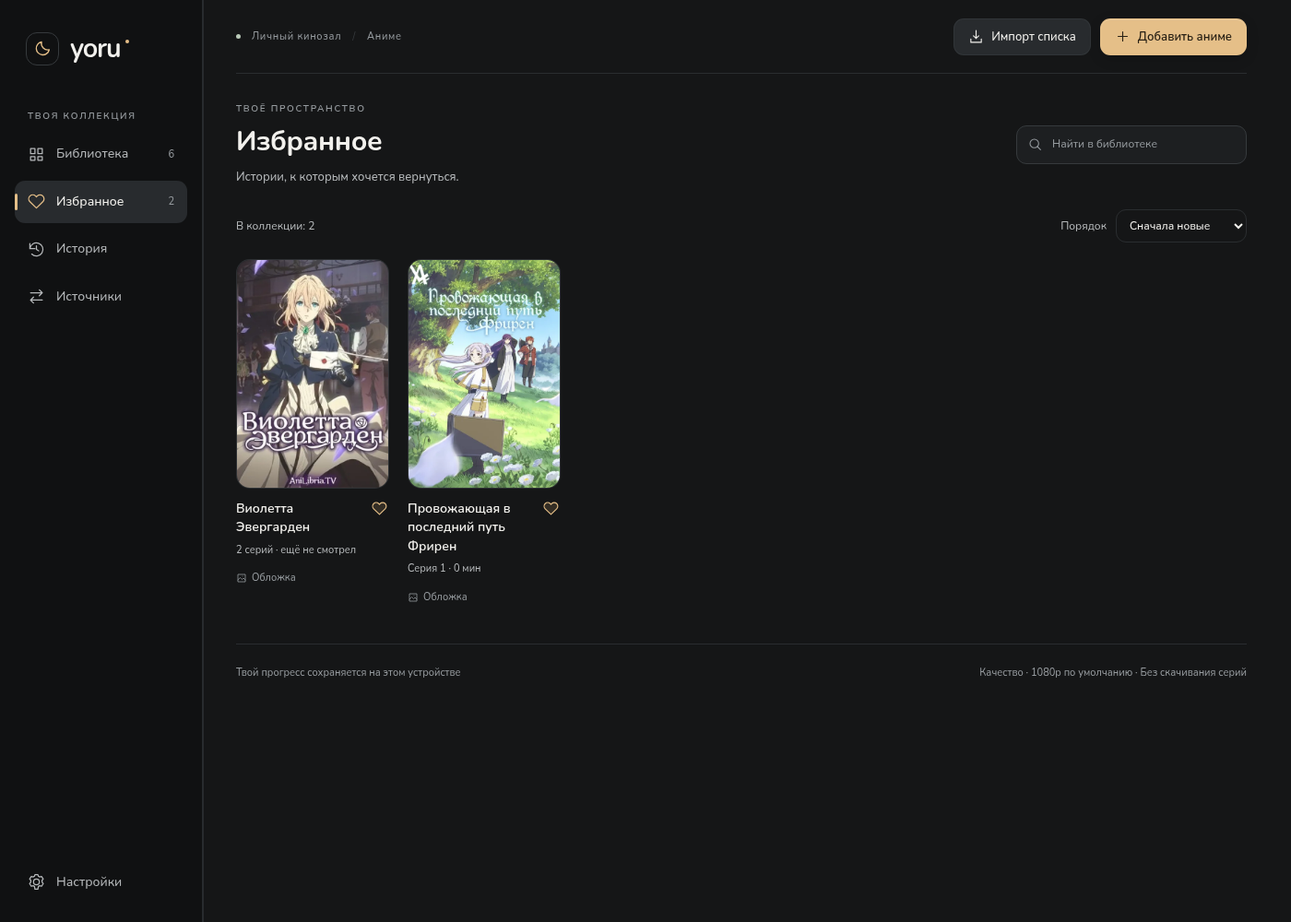
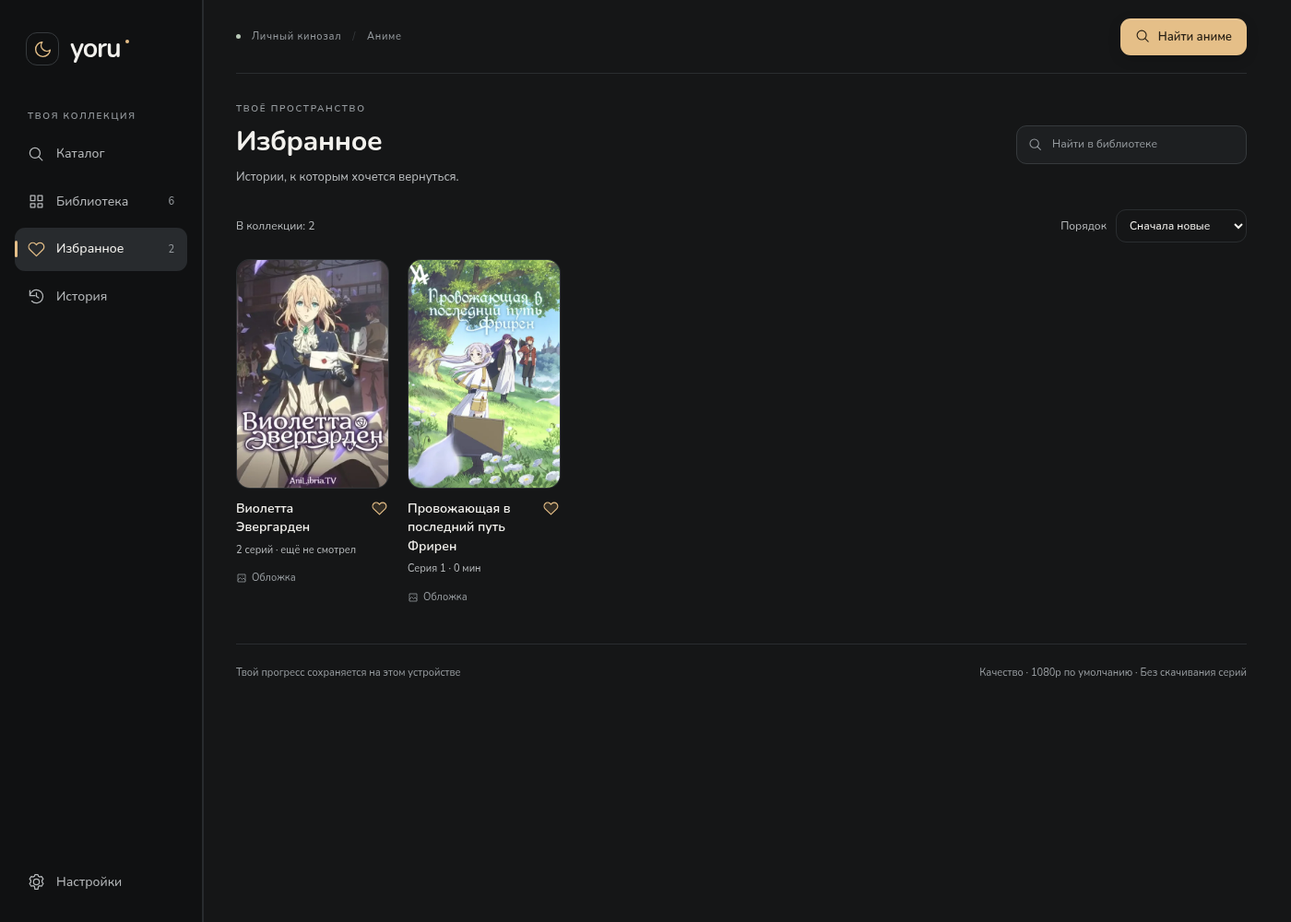
Document Yoru 0.8.0 catalog, verified installer and refresh all screenshots [skip ci]

Changed region(s): [[0.0, 0.155, 0.1536, 0.341], [0.7371, 0.0, 0.9214, 0.062]]

diff --git a/scripts/update-gallery.js b/scripts/update-gallery.js
@@ -12,8 +12,11 @@ const aliases = {
   'settings-manual.png': 'settings-advanced-preview.png',
   'original-player.png': 'original-ass-player.png',
   'anidb-cast.png': 'character-photos.png',
+  'catalog-release.png': 'catalog-release-standard.png',
 };
-const names = [...new Set([...readdirSync(gallery).filter(name => name.endsWith('.png')), 'loading-miku.png'])];
+// Live network captures are reviewed separately; deterministic tests cannot recreate them.
+const liveCaptures = new Set(['catalog-live-home.png', 'catalog-live-player.png', 'catalog-live-player-alternative.png']);
+const names = [...new Set([...readdirSync(gallery).filter(name => name.endsWith('.png') && name !== 'sources.png' && !liveCaptures.has(name)), 'loading-miku.png', 'catalog-home.png', 'catalog-release.png', 'custom-theme-safe.png', 'performance-smooth.png', 'library-empty-moon.png'])];
 const copies = names.map(name => ({ from: path.join(captures, aliases[name] || name), to: path.join(gallery, name) }));
 // Check every source before replacing any published image.
 for (const { from } of copies) if (!statSync(from).isFile() || !statSync(from).size) throw new Error(`Missing capture: ${from}`);

diff --git a/README.md b/README.md
@@ -1,113 +1,78 @@
 # Yoru — личный кинозал для аниме
 
-<img src="public/yoru-icon.png" width="80" height="80" alt="Иконка Yoru — луна и воспроизведение">
+<img src="public/yoru-icon.png" width="80" height="80" alt="Иконка Yoru">
 
-**Windows 10/11 · x64 · версия 0.7.7 · предварительная сборка**
+**Windows 10/11 · x64 · версия 0.8.0**
 
-Библиотека, продолжение просмотра, выбранная озвучка и свои заметки о персонажах. Пять готовых тем и собственная палитра. Приложение работает с прямыми видеоссылками; страницы плееров сайтов открываются отдельно.
+Открой каталог, найди аниме, выбери серию и нажми **«Смотреть»**. Название, постер, описание, серии и доступное видео загружаются автоматически. Вставлять ссылки для просмотра из каталога не нужно.
 
-![Yoru 0.7 — библиотека с настоящими постерами](docs/images/library.png)
+![Настоящий каталог Yoru 0.8.0 — живой ответ сервиса](docs/images/catalog-live-home.png)
 
-## Установить приложение
+## Установка
 
-**[Скачать установщик Yoru 0.7.7](https://github.com/Duwkaf1/kinoteatr-xivivide/actions/runs/40199925366/artifacts/12601078638)** · примерно 103 MiB. В артефакте **Yoru-installer-x64** находится `Yoru-Setup-0.7.7-x64.exe`: закрой прежний Yoru, извлеки EXE из ZIP GitHub, запусти и нажми **«Установить»**. Установщик автономный, на русском, без прав администратора. Библиотека, темы и заметки сохраняются. [Инструкция и проверки](docs/installer.md).
+**[Скачать установщик Yoru 0.8.0](https://github.com/Duwkaf1/kinoteatr-xivivide/actions/runs/40209399298/artifacts/12604909852)** — около 103 MiB. Извлеки `Yoru-Setup-0.8.0-x64.exe` из ZIP GitHub, закрой прежний Yoru и нажми **«Установить»**. Установщик автономный, на русском, без прав администратора; библиотека и настройки сохраняются. Для загрузки артефакта GitHub нужен вход в аккаунт.
 
-## Готовность к публикации
+[Инструкция](docs/installer.md) · [ZIP без установки](https://github.com/Duwkaf1/kinoteatr-xivivide/actions/runs/40209399298/artifacts/12605169136) · [Успешная Windows-проверка](https://github.com/Duwkaf1/kinoteatr-xivivide/actions/runs/40209399298)
 
-**Пока это предварительный плеер для прямых ссылок, а не готовый каталог, где любое аниме запускается автоматически.** Серии и озвучки сайтов ещё не извлекаются автоматически. Проверка Yummyani/AnimeJoy/AniDUB дала HTTP 200 страниц, TroutCDN — 403, Brogiro — 404. У четырёх популярных релизов AniLibria загрузились метаданные и HLS-плейлисты, но медиапробы отклонил прокси среды. Российского выхода в этой среде нет: просмотр из РФ и задержки живого аниме не подтверждены. [Результаты проверки 0.7.6](docs/release-audit-0.7.6.md).
+## Каталог и просмотр
 
-В 0.7.2 убраны подписи источника фото на карточках. Расширены проверки обоих плееров на MP4/WebM/HLS и декодирование звука. Исправлены запуск после смены движка во время загрузки и очистка оформленных субтитров при закрытии Video.js. [Полный отчёт перед выпуском](docs/release-audit-0.7.2.md).
+- Поиск по названию, разделы **«Популярное», «Обновления», «Новинки»**, подгрузка следующих карточек.
+- Карточка аниме с постером, описанием, жанрами, выбором доступной серии и избранным.
+- Автоматическое добавление просмотренного аниме в библиотеку и история с продолжением на сохранённой серии и позиции.
+- Основной и альтернативный плееры; переключение сохраняет позицию, паузу и звук.
+- Качество выбирается из реально доступных вариантов. Перед повторным открытием обновляются временные адреса видео, чтобы старые ссылки не мешали запуску.
+- При ошибке — понятное сообщение и повторная попытка. Отдельной страницы «Источники» с обязательными проверками больше нет.
 
-## Восстановление просмотра 0.7.7
+Сейчас подключён **каталог AniLibria/AniLiberty**: в живой проверке 25 октября 2026 года API вернул **1 904 релиза** с русской озвучкой. Это каталог этого провайдера, а не всех аниме мира. Часть релизов может иметь неполный список доступных серий или ограничения; приложение показывает фактическую доступность. Другие студии и оригинальная дорожка не приписываются этому провайдеру.
 
-**30 секунд без продвижения видео — переход к другому источнику той же озвучки.** Быстрые ошибки могут обработаться раньше; повторные попытки не начинают ожидание заново. Сначала перебираются источники текущей студии, затем сохранённый приоритет AniDUB → AniLibria → другая русская. Выбранные разрешение, сезон, серия, позиция, пауза и звук сохраняются. Добавленный во время просмотра резервный источник сразу участвует в восстановлении.
+![Настоящее воспроизведение «Фрирен» в 1080p через основной плеер](docs/images/catalog-live-player.png)
 
-У каждого аниме свой сохранённый прогресс. После обычного закрытия и перезапуска открываются нужная серия и тайминг. Персонажи включают главных и второстепенных; главные показаны первыми, личные имена и заметки сохраняются. [Как это проверено и где работает](docs/recovery-0.7.7.md).
+[«Клинок, рассекающий демонов» через альтернативный плеер](docs/images/catalog-live-player-alternative.png) · [Как проверен каталог](docs/catalog-0.8.0.md)
 
-## Стабильность и анимации 0.7.6
+## Оформление и удобство
 
-Исправлены потеря изменений после импорта во время просмотра, переполнение библиотеки, запуск с повреждёнными настройками AniDB, выбор одноимённых переводов и появление оформленных субтитров на паузе. При недоступном хранилище интерфейс честно сообщает о временных изменениях. Улучшена вёрстка малого окна при большом масштабе.
+Пять готовых тем — **«Тёплая ночь», OLED, «Север», «Сакура», «Молочный»** — и **«Своя»** с цветами фона, панелей, текста, акцента и формой элементов. Личный выбор сохраняется при переключении тем.
 
-В режиме **«Качество»** внутри загрузочного кольца танцует пиксельная Мику. Она появляется при ожидании видео и исчезает после запуска, паузы или закрытия. В скрытом окне анимации остановлены; другие режимы и уменьшение движения не загружают спрайт. Постеры мягко появляются и приближаются при наведении. Разрешение видео от этих эффектов не меняется.
+В 0.8.0 исправлены форма и центрирование месяца. Собственная палитра автоматически получает читаемый текст на каждой поверхности, включая поля и боковую панель. Включённое по умолчанию **«Смягчать яркие фоны»** делает большие цветные поверхности спокойнее; переключатель позволяет оставить точные цвета. Исходные значения в палитре сохраняются в обоих случаях, исправление контраста работает всегда.
 
-![Мику в индикаторе загрузки режима «Качество»](docs/images/loading-miku.png)
+Ползунок **«Производительность → Баланс → Качество»** плавно следует за мышью и мягко останавливается на выбранном режиме. Клавиатура переключает режимы целиком. Описания не сдвигают ползунок при смене режима на узком окне.
 
-## Названия переводов 0.7.5
+- Производительность отключает декоративные эффекты и анимации, уменьшает количество карточек библиотеки и лимиты памяти медиакомпонентов.
+- Качество добавляет мягкие переходы, объём обложек и танцующую пиксельную Мику в индикатор ожидания видео.
+- Разрешение видео настраивается отдельно. Изменение оформления не перезапускает текущую серию.
+- Локальный шрифт Nunito с кириллицей, SVG-иконки, прокрутка справа, клавиатурный фокус и поддержка уменьшения движения.
 
-«Студия В» на прежнем снимке была подписью собственного тестового файла, а не реальной команды. Пример теперь явно подписан **«Демонстрационные субтитры»**. В настоящих дорожках сохраняется имя из источника (`translator` / `studio` / `label`); при локальном импорте оформленных субтитров также читается автор перевода в метаданных. Имя файла больше не подставляется вместо автора. Если имени нет — **«Переводчик не указан»**, без выдумывания студии.
+![Собственная тема с исправленным контрастом и смягчением яркого фона](docs/images/custom-theme-safe.png)
 
-## Понятные настройки 0.7.4
+[Все 44 скриншота](docs/images/README.md) · [Плавный ползунок](docs/images/performance-smooth.png) · [Пример формы элементов](docs/images/settings-radius-preview.png)
 
-Две вкладки: **«Основные»** и **«Дополнительно»**. В основных — ползунок с тремя положениями **«Производительность → Баланс → Качество»**, готовые темы, собственная палитра и автопереход серии. Технические параметры доступны отдельно.
+## Сохранённые возможности
 
-- Содержимое прокручивается справа, навигация остаётся на месте, «Настройки» — внизу панели.
-- Заголовки расположены внутри карточек; шрифт Nunito с кириллицей встроен в приложение и работает без интернета.
-- Вместо значений скругления в пикселях — «Сдержанная / Мягкая / Округлая». При наведении или изменении ползунка появляется кнопка **«Показать пример»** с настоящей карточкой и кнопкой в выбранной теме.
-- Производительность отключает анимации, тени, фильтры, декоративный блок главной и увеличение обложек, показывает по 12 карточек. Скрытая библиотека не создаёт карточки и не удерживает их изображения. Лимиты памяти загрузки видео и оформленных субтитров уменьшаются при следующем запуске соответствующего компонента.
-- Качество добавляет мягкие переходы, объём обложек и аккуратное увеличение при наведении. Системное уменьшение движения и личное отключение анимаций учитываются.
-- Чёткость видео задаётся отдельно: режим компьютера не выбирает отсутствующее разрешение и не перезапускает текущую серию.
+У каждого аниме свои прогресс, заметки и имена персонажей. В составе главные персонажи показаны перед второстепенными. Загрузка состава через AniDB и настройка сезона остаются отдельной дополнительной возможностью; автоматического полного состава каждого релиза и каждой серии пока нет.
 
-![Основные настройки Yoru 0.7.4](docs/images/settings-simple.png)
+Для собственной библиотеки сохранены дополнительные прямые MP4/WebM/HLS-источники, оригинальная озвучка, несколько переводов и текстовые/оформленные субтитры. Ручное добавление и импорт находятся в **Настройки → Дополнительно → данные библиотеки** и не нужны для каталога. Страницы сторонних сайтов открываются в изолированных окнах; их внутренними плеерами управляет сайт.
 
-[Пример скругления](docs/images/settings-radius-preview.png)
+**30 секунд без продвижения видео** запускают переход к доступному резервному источнику той же серии и озвучки, затем учитывается сохранённый приоритет русских студий. Качество не снижается автоматически. Это работает при наличии подходящих резервных источников; единственный поток не превращается в несколько независимых плееров. Ручная пауза не считается сбоем.
 
-## Новый интерфейс
+[Восстановление просмотра](docs/recovery-0.7.7.md) · [Имена и заметки](docs/character-details.md) · [Субтитры и дополнительные источники](docs/viewing-0.6.md)
 
-Полностью обновлены оболочка, библиотека, избранное, история, источники, настройки, просмотр и все диалоги. Общие цвета, типографика, размеры и состояния компонентов заменили накопленные переопределения CSS. Системные рамка и кнопки окна Windows сохранены.
+## Проверки версии 0.8.0
 
-- Спокойные поверхности, сдержанный акцент, SVG-иконки, заметный клавиатурный фокус.
-- Простые настройки с двумя вкладками; подробные параметры остались доступны отдельно.
-- Компактный плеер: основные действия рядом с видео, остальные — в параметрах просмотра.
-- Адаптация к небольшому окну, системному контрасту и уменьшению движения.
-- OLED с настоящим чёрным фоном; раннее применение сохранённой темы без светлой вспышки страницы.
+Проверенный код приложения — [`b1a6645`](https://github.com/Duwkaf1/kinoteatr-xivivide/commit/b1a66450cee1de0d3e47595474fc6eae30300673).
 
-[Все новые скриншоты](docs/images/README.md) · [Дизайн-система, изменённые файлы и проверки](docs/redesign-0.7.md)
+- **68 unit-тестов**, **81 браузерный сценарий**, production-сборка и запуск настоящего Linux Electron прошли успешно.
+- Проверены поиск → карточка → серия → видео без ссылок, обработка ошибок, обновление временных адресов, сохранение прогресса, оба плеера, звук, субтитры, темы, формы, персонажи и восстановление после настоящего ожидания 30 секунд.
+- Проверены малые окна, масштаб рендерера 100/125/150/200%, клавиатура и контраст собственных цветов.
+- **Живая проверка без подмены API/медиа:** «Фрирен» и «Клинок, рассекающий демонов» воспроизведены в 1920×1080 со звуком, в разных движках; перемотка на минуту успешна. Каталог загрузил 48 карточек на двух страницах. [Машиночитаемый результат](docs/live-catalog-0.8.0.json).
+- **Windows CI успешен:** тесты, сборка, настоящий Electron, упаковка, установка, запуск установленного EXE, обновление, защита открытого приложения, удаление с сохранением данных и путь с кириллицей.
 
-## Темы и собственное оформление
+Живой просмотр проверен из облачной сети, не у российского провайдера. Доступность каждого релиза, отсутствие любых задержек, физическое изменение DPI мониторов и передача звука Discord на пользовательском ПК не подтверждены. Приложение не может гарантировать работу внешнего сервиса при его отказе.
 
-«Тёплая ночь», **OLED**, «Север», «Сакура», «Молочный» и **«Своя»**. В собственной теме настраиваются фон, панели, текст, акцент и скругление 12–36 px. Свои значения сохраняются при переключении готовых тем. Редактор предупреждает о низком контрасте, текст основной кнопки подбирается автоматически.
+[Подробный отчёт 0.8.0](docs/catalog-0.8.0.md) · [История проверок](docs/validation.md)
 
-| OLED | Светлая тема |
-| --- | --- |
-| ![Настройки OLED](docs/images/settings-oled.png) | ![Настройки в светлой теме](docs/images/settings-cream.png) |
+## Запуск из исходников
 
-[Собственная палитра](docs/images/settings-custom.png) · [Север](docs/images/settings-nord.png) · [Сакура](docs/images/settings-sakura.png) · [Подробные настройки](docs/images/settings-manual.png)
-
-## Просмотр
-
-- Прямые HTTPS-ссылки MP4/WebM/HLS, библиотека с поиском, избранным и историей.
-- Позиция просмотра, список серий и автопереход, который можно отключить.
-- В режиме дубляжа приоритет AniDUB → AniLibria/AniLiberty → другая русская студия. Язык задаётся данными источника, автоматически не распознаётся.
-- Оригинальная озвучка, отдельные варианты перевода субтитров от разных студий. Приоритет у японского оригинала; выбирать язык оригинала вручную не требуется.
-- Текстовые и оформленные субтитры из UTF-8 файлов/ссылок SRT/VTT/ASS/SSA. Задержка; для текстовых — размер и фон, для оформленных — стиль автора через libass.
-- Основной и альтернативный плееры сохраняют позицию, паузу и звук при переключении.
-- Попытки восстановления и запасные прямые источники выбранного языка/качества. Разрешение не снижается автоматически. Ручная пауза не считается сбоем.
-
-![Просмотр с вариантом перевода — собственный тестовый видеофрагмент](docs/images/original-player.png)
-
-[Параметры просмотра](docs/images/player-settings.png) · [Инструкция и ограничения](docs/viewing-0.6.md) · [Пример списка](docs/playlist-original.example.json)
-
-Страницы Yummyani, AnimeJoy и ранее добавленных сайтов открываются в изолированных окнах без Node.js и доступа к профилю приложения. Их внутренними сериями, переводами и позицией управляет сайт. Автоматическое извлечение и синхронизация потоков сайтов пока не реализованы. При отказе сети и всех источников гарантировать непрерывность нельзя. Кодеки зависят от Electron.
-
-## Персонажи, свои имена и заметки
-
-В 0.7.1 блок упрощён: карточки, имена, заметки и одна кнопка **«Настроить»**. Если сезон один, лишнего переключателя нет. Номера релизов и «Привязать» убраны; загрузка и отметки серий находятся в отдельном окне. Для выбора аниме достаточно ссылки на его страницу, номер помнить не нужно.
-
-[Настройки персонажей](docs/images/cast-settings.png)
-
-У каждого аниме и сезона собственная связь с релизом AniDB. Импорт XML или запрос через зарегистрированный HTTP-клиент загружает состав, фотографии персонажей и сэйю. Полная автоматическая загрузка составов всей библиотеки и достоверный полный каст каждой серии пока не реализованы; отметки эпизодов можно вести вручную.
-
-Карандаш рядом с именем меняет личную подпись. Сразу под именем — заметка с автосохранением. Они сохраняются после перезапуска и обновления состава и не переходят в другое аниме. Можно вернуть исходное имя и заменить фотографию своей HTTPS-ссылкой либо явным выбором через MyAnimeList/Jikan.
-
-![Персонажи с фотографиями и личной заметкой](docs/images/anidb-cast.png)
-
-[Имена и заметки](docs/character-details.md) · [Источники фотографий](docs/character-photos.md) · [Обложки AniLibria](docs/posters.md)
-
-Снимки показывают подготовленную библиотеку с настоящими постерами и архивным составом AniDB. В установленном приложении библиотека пустая. Сведения на изображениях не являются свежим ответом API. Живой поиск Jikan/MyAnimeList из облачной сети был заблокирован; его обработка проверена на контролируемых ответах. Для API AniDB нужен собственный зарегистрированный клиент.
-
-## Запуск и сборка
-
-Нужен Node.js 24. Установка и запуск из исходников:
+Нужен **Node.js 24**.
 
 ```sh
 npm ci
@@ -116,42 +81,16 @@ npm run build
 npm start
 ```
 
-Установщик одним файлом (нужен бесплатный NSIS 3.11):
-
 ```sh
+npm run test:e2e
+npm run test:desktop
 npm run installer:win
 ```
 
-Windows-папка приложения и ZIP без установки:
+Для установщика нужен бесплатный NSIS 3.11. `npm run package:win` собирает папку Windows-приложения. В облачной среде с унаследованным прокси используй `NODE_USE_ENV_PROXY=1`; TLS и проверка сертификатов остаются включены. Для Linux Electron нужен графический дисплей; браузерным тестам нужны Chromium и FFmpeg. [Сборка установщика](docs/installer.md).
 
-```sh
-npm run package:win
-python scripts/archive-win.py
-```
+## Данные и лицензии
 
-Распакуй **всю папку** и запускай `Yoru.exe`. Одного EXE недостаточно. Сборка не подписана. При использовании унаследованного прокси в облачной среде: `NODE_USE_ENV_PROXY=1 npm run package:win`. TLS и контрольные суммы Electron остаются включены.
+Настройки, библиотека и заметки хранятся локально. Прежний профиль `kadr-anime` сохранён для совместимости. Временные адреса видео каталога не сохраняются в постоянной библиотеке: приложение запрашивает их заново перед просмотром.
 
-[Проверка и сборка на Windows в GitHub Actions](https://github.com/Duwkaf1/kinoteatr-xivivide/actions/workflows/windows.yml). ZIP доступен в артефактах успешного запуска. Статус конкретной версии нужно смотреть в Actions.
-
-## Проверки
-
-```sh
-npm test
-npm run test:e2e
-npm run build
-npm run test:desktop
-```
-
-**[Windows CI 0.7.7 — успешно](https://github.com/Duwkaf1/kinoteatr-xivivide/actions/runs/40199925366)**: 58 unit-тестов, production-сборка, настоящий Windows Electron, упаковка и полный цикл установки, запуска установленного EXE, обновления и удаления. Native-сценарий также добавляет резервный сервер во время просмотра и проверяет сохранение позиции, паузы и звука после отказа первого. Проверенный код — `413e132`. [Установщик](https://github.com/Duwkaf1/kinoteatr-xivivide/actions/runs/40199925366/artifacts/12601078638) · [ZIP без установки](https://github.com/Duwkaf1/kinoteatr-xivivide/actions/runs/40199925366/artifacts/12601613041) · [Отчёт о восстановлении](docs/recovery-0.7.7.md).
-
-В Linux успешно пройден **71 браузерный сценарий**; отдельно проверен запуск настоящего Electron через `file://`. В обоих движках реальное ожидание около 30 секунд завершилось переходом к источнику той же озвучки с сохранением серии и тайминга. Проверены приоритеты, независимый прогресс двух аниме после перезапуска, главные/второстепенные персонажи, прежние сценарии и масштаб 100–200%. Это не физическое переключение DPI монитора Windows. Галерея обновлена: **37 PNG**. [История проверок](docs/validation.md).
-
-Браузерные сценарии используют собственное короткое видео и контролируемые ответы для проверки отказов. На Linux нужен Chromium, FFmpeg и графический дисплей для Electron. В изолированной облачной Linux-проверке применяется `KADR_ELECTRON_NO_SANDBOX=1`; обычное приложение сохраняет `sandbox: true`.
-
-Реальная смена Windows DPI, ClearType, переход между мониторами и звук Discord ещё требуют проверки на пользовательском компьютере. Для демонстрации выбирай окно Yoru с передачей звука; для сайта — соответствующее отдельное окно. Программа не управляет Discord и не обходит защиту видео.
-
-## Данные и зависимости
-
-Библиотека, настройки, прогресс и заметки хранятся локально. Прежний профиль `kadr-anime` и ключи хранилища сохранены для совместимости. Не публикуй свои плейлисты с личными токенами. [Пример прямых источников](docs/playlist.example.json).
-
-Платные библиотеки и сервисы для редизайна не добавлялись. Electron, HLS.js, Video.js и libass-wasm используются с их лицензиями; лицензии медиа-компонентов и включённого Liberation Sans сохраняются в пакете. Новые SVG созданы в проекте. Локальный Nunito поставляется с лицензией SIL OFL в public/fonts/OFL-Nunito.txt и в Windows-пакете. Постеры, фотографии и персонажи принадлежат их правообладателям; тестовые изображения исключены из Windows-пакета.
+Платные библиотеки не добавлены. Лицензии Electron, HLS.js, Video.js, libass-wasm и включённых шрифтов сохраняются в поставке. Nunito — SIL OFL. Постеры и кадры аниме принадлежат правообладателям; тестовые медиа и архивные изображения не включены в установщик.

diff --git a/docs/catalog-0.8.0.md b/docs/catalog-0.8.0.md
@@ -1,0 +1,64 @@
+# Yoru 0.8.0 — каталог, запуск и исправления оформления
+
+Проверка выполнена 25 октября 2026 года, часовой пояс Asia/Yekaterinburg. Проверенный код — `b1a66450cee1de0d3e47595474fc6eae30300673`; документация и галерея публикуются отдельным коммитом.
+
+## Основной сценарий
+
+Приложение открывается на каталоге. Пользователь ищет название, открывает карточку, выбирает доступную серию и нажимает «Смотреть». Постер, описание, список эпизодов и видеопотоки приходят из AniLibria/AniLiberty автоматически. Ручная форма ссылки остаётся только дополнительным инструментом импорта в настройках. Старый экран источников с неподтверждёнными сайтами удалён.
+
+Доступны популярные, обновлённые и новые релизы, поиск с отменой устаревших запросов, следующая страница, состояния загрузки, пустого результата и ошибки с повторной попыткой. При закрытии карточки возвращается клавиатурный фокус. Встроенные изображения и разметка проверены на малом окне и высоком масштабе.
+
+Каталог не выдаётся за глобальный: API в живом прогоне вернул 1 904 релиза провайдера. Для недоступных или ещё не вышедших серий просмотр не предлагается. Частично доступные релизы показывают реальное число доступных эпизодов. Имя русской студии соответствует провайдеру; неподтверждённые варианты оригинала и других студий не создаются.
+
+## Сохранение и сеть
+
+Перед открытием сохранённого аниме метаданные обновляются: временные URL не попадают в постоянную библиотеку. У каждого аниме сохраняются серия, сезон и тайминг. Обновление каталога сохраняет личный постер, настройки состава, собственные источники и субтитры. Повтор после ошибки получает свежие метаданные, не отправляет пользователя заполнять ссылку.
+
+В Electron сетевой шлюз работает через типизированный IPC и `net.fetch`: разрешены только операции каталога и карточки на двух фиксированных официальных доменах. Произвольный адрес передать нельзя. Запросы имеют ограничение времени, размера ответа и числа одновременно выполняемых операций, отменяются при закрытии окна. Устаревшая отмена не вызывает ошибку главного процесса. Контекстная изоляция, sandbox и проверка сертификатов сохранены.
+
+## Оформление
+
+- Месяц построен в фиксированном квадратном SVG с круглой орбитой и центрированием; фоновый контейнер его не растягивает.
+- Ползунок производительности отслеживает непрерывное движение указателя и анимированно останавливается на одном из трёх режимов. Клавиатура выбирает полные режимы. Высота текста стабилизирована, чтобы трек не прыгал.
+- Собственная тема получает разные читаемые цвета текста для фона, панелей и полей. Выбранный пользователем цвет сохраняется отдельно от вычисленного контрастного отображения.
+- По умолчанию смягчается чрезмерная насыщенность больших фонов. Переключатель позволяет отключить смягчение без потери исходных значений. Контраст исправляется и при отключённом смягчении.
+- Редактор цвета использует текущую тему, не фиксированную синюю панель. Раннее применение темы использует ту же логику, что основной интерфейс.
+- Сохранены пять готовых тем, собственная палитра, режимы производительности, уменьшение движения и настройки скругления.
+
+## Результаты
+
+| Проверка | Результат |
+| --- | --- |
+| Unit | 68 пройдено |
+| Браузерные сценарии | 81 пройден, 4,3 минуты |
+| Production build | Успешно |
+| Linux Electron | Успешный запуск через file://, оба движка, звук, оформленные субтитры, IPC, сохранение |
+| Масштаб | 100/125/150/200% рендерера, окно 640×480; это не физическое переключение DPI Windows |
+| Восстановление | Настоящий 30-секундный таймер в обоих плеерах, сохранение озвучки/позиции и независимого прогресса |
+| Windows | Все задания CI успешны; установленный EXE запущен и проверен, обновление/удаление/кириллический путь пройдены |
+
[1 lines of base64/hex data omitted]
+
+### Живое воспроизведение
+
+Этот прогон использовал настоящие API и видео в Linux Electron без подмены ответов и отключения TLS. Отдельные детерминированные браузерные тесты используют собственное видео и архивные данные для воспроизводимых отказов.
+
+| Аниме | Движок | Доступные серии | Видео | Проверенная перемотка |
+| --- | --- | --- | --- | --- |
+| Провожающая в последний путь Фрирен | Основной | 28 | 1920×1080, декодируются видео и звук | 60 → 61,029 с |
+| Клинок, рассекающий демонов | Альтернативный | 26 | 1920×1080, декодируются видео и звук | 60 → 61,069 с |
+
+Каталог загрузил 48 карточек после следующей страницы; ошибок страницы не зарегистрировано. [Исходный результат без токенов и временных ссылок](live-catalog-0.8.0.json).
+
+Российский выход сети не настроен: прогон не подтверждает доступность в РФ, всех остальных релизов и всех внешних сайтов. Другие провайдеры пока не подключены к автоматическому каталогу. При полном отказе единственного потока запасной источник должен существовать, чтобы было куда переключаться.
+
+## Основные файлы
+
+- `src/catalog-provider.js`, `desktop/catalog-network.js`, `desktop/main.js`, `desktop/preload.cjs`, `vite.config.js` — ограниченный сетевой доступ в production и dev.
+- `src/anime-catalog.js`, `src/catalog-view.js`, `src/app.js` — каталог, карточки, запуск, обновление и интеграция библиотеки.
+- `src/media-schema.js`, `src/core.js`, `src/storage.js` — идентификаторы каталога, проверка данных и сохранение без временных URL.
+- `src/catalog-design.css`, `src/custom-theme.js`, `src/themes.css`, `src/settings-controls.js`, `src/icons.js`, `src/style.css` — дизайн, контраст, плавность, месяц.
+- `scripts/build-theme-init.js`, `public/theme-init.js` — единая логика раннего применения палитры.
+- `e2e/catalog.spec.js`, `test/anime-catalog.test.js`, `test/palette-safety.test.js`, `scripts/smoke-catalog.js` — новые проверки; прежние сценарии адаптированы к старту с каталога.
+
+[Галерея из 44 PNG](images/README.md) обновлена полным прогоном; три живых снимка получены отдельно. [Установить](installer.md).

diff --git a/docs/installer.md b/docs/installer.md
@@ -1,6 +1,6 @@
 # Установка Yoru одним файлом
 
-Для Windows 10/11 x64: **[скачать `Yoru-Setup-0.7.7-x64.exe`](https://github.com/Duwkaf1/kinoteatr-xivivide/actions/runs/40199925366/artifacts/12601078638)** — примерно 103 MiB. Это автономный установщик: интернет для установки, Node.js и права администратора не нужны. Для просмотра онлайн интернет нужен. Версия остаётся предварительной: установщик не добавляет автоматическое извлечение серий с сайтов.
+Для Windows 10/11 x64: **[скачать `Yoru-Setup-0.8.0-x64.exe`](https://github.com/Duwkaf1/kinoteatr-xivivide/actions/runs/40209399298/artifacts/12604909852)** — примерно 103 MiB. Это автономный установщик: интернет для установки, Node.js и права администратора не нужны. Для просмотра онлайн интернет нужен. После запуска открывается каталог AniLibria/AniLiberty: поиск, постеры, серии и воспроизведение загружаются автоматически. Вставлять ссылки не нужно. Каталог ограничен релизами подключённого провайдера.
 
 1. Закрой прежнюю версию Yoru, особенно если запускал её из ZIP. Открой установщик и нажми **«Установить»**. При желании отключи ярлык на рабочем столе.
 2. Нажми **«Готово»**, чтобы открыть Yoru. Позже приложение доступно в меню «Пуск».
@@ -9,11 +9,7 @@
 
 Для уменьшения размера используется сжатие LZMA. Из поставки убраны неиспользуемые языковые пакеты интерфейса Chromium: оставлены русский и английский для резервного варианта. Это не ограничивает язык звука или субтитров, кодеки и шрифты сохранены. Движок Electron остаётся внутри, поэтому установщик не может весить всего несколько мегабайт.
 
-В 0.7.7 проверено восстановление через 30 секунд, сохранение серии/тайминга и порядок персонажей. [Подробнее](recovery-0.7.7.md).
-
-В 0.7.6 исправлены ошибки библиотеки, сохранения и переводов; добавлена Мику в индикатор ожидания режима «Качество». Другие режимы не загружают её спрайт.
-
-В 0.7.4 добавлены простые настройки с тремя режимами, прокрутка справа, пример формы кнопок и локальный округлый шрифт Nunito.
+В 0.8.0 добавлен поиск и автоматический просмотр каталога, обновление временных адресов, исправление контраста собственной темы и плавный ползунок. Сохранены восстановление через 30 секунд, серия/тайминг и порядок персонажей. [Отчёт](catalog-0.8.0.md).
 
 Библиотека, темы, прогресс и заметки остаются в прежнем профиле `%APPDATA%\kadr-anime`. Удаление через **Параметры Windows → Приложения → Yoru → Удалить** сохраняет профиль. Удаляются только поставленные файлы, ярлыки и запись приложения; посторонние файлы в папке не удаляются.
 
@@ -30,7 +26,7 @@ npm ci
 npm run installer:win
 ```
 
-Результат — `artifacts/Yoru-Setup-0.7.7-x64.exe` и соседний файл SHA-256. Уже упакованное приложение можно превратить в установщик командой `node scripts/build-installer.js`. Сохраняется и прежняя ZIP-сборка для запуска без установки.
+Результат — `artifacts/Yoru-Setup-0.8.0-x64.exe` и соседний файл SHA-256. Уже упакованное приложение можно превратить в установщик командой `node scripts/build-installer.js`. Сохраняется и прежняя ZIP-сборка для запуска без установки.
 
 GitHub Actions собирает отдельный артефакт **Yoru-installer-x64** с установщиком и контрольной суммой. GitHub скачивает артефакты в ZIP-обёртке: извлеки из неё установочный EXE один раз. Самому установщику дополнительные файлы не нужны. Артефакты имеют ограниченный срок хранения.
 
@@ -38,8 +34,8 @@ GitHub Actions собирает отдельный артефакт **Yoru-insta
 
 Windows CI проверяет видимые русские кнопки установки, установку без запроса повышения прав, ярлыки и регистрацию версии; повторную установку; запуск **реального установленного `Yoru.exe`** с проверками тем, видео, звука и субтитров; защиту открытого приложения от перезаписи; удаление с сохранением профиля и посторонних файлов; установку в путь с пробелами и кириллицей. Проверка предназначена для отдельного CI-окружения, а не личного компьютера.
 
-[Проверка 0.7.7 на Windows — успешно](https://github.com/Duwkaf1/kinoteatr-xivivide/actions/runs/40199925366), исходники `413e132`. Установка, native-проверка приложения, повторная установка и удаление прошли, оба артефакта загружены.
+[Проверка 0.8.0 на Windows — успешно](https://github.com/Duwkaf1/kinoteatr-xivivide/actions/runs/40209399298), исходники `b1a6645`. Установка, native-проверка приложения, повторная установка и удаление прошли, оба артефакта загружены.
 
[2 lines of base64/hex data omitted]
 
 Результат следующих прогонов смотри в [Windows Actions](https://github.com/Duwkaf1/kinoteatr-xivivide/actions/workflows/windows.yml). Это автоматическая проверка на виртуальной Windows, не проверка SmartScreen на каждом компьютере.

diff --git a/docs/images/README.md b/docs/images/README.md
@@ -1,12 +1,30 @@
 # Yoru — скриншоты интерфейса
 
-Галерея содержит **37 PNG** реализованного интерфейса 0.7.7. Все снимки заново получены общим прогоном 71 браузерного сценария. Полоса прокрутки не скрывается тестовым браузером; показаны обычные окна, а не сжатая высокая страница. Предыдущие снимки заменены. Библиотека подготовлена для проверок; после установки приложение пустое. Видео — собственный короткий тестовый фрагмент, не поток аниме.
+Галерея содержит **44 PNG** интерфейса 0.8.0. 41 снимок заново получен полным прогоном 81 браузерного сценария. Ещё три снимка — живой каталог и настоящее воспроизведение в Linux Electron без подмены API и медиа. Старый экран «Источники» удалён вместе с его снимком.
+
+## Каталог и настоящее видео
+
+![Живой каталог с постерами, поиск и разделы](catalog-live-home.png)
+
+![Настоящая «Фрирен» в основном плеере, 1080p](catalog-live-player.png)
+
+[«Клинок, рассекающий демонов» в альтернативном плеере](catalog-live-player-alternative.png) · [Результат живой проверки](../live-catalog-0.8.0.json).
+
+[Каталог с контролируемыми данными](catalog-home.png) · [Карточка и выбор серии](catalog-release.png). Последняя карточка использует архивный постер и два собственных тестовых эпизода — не живое число серий аниме.
+
+[Исправленная геометрия месяца](library-empty-moon.png) · [Непрерывный ползунок режима](performance-smooth.png).
+
+![Палитра пользователя: насыщенный синий смягчён, тёмный текст исправлен для каждой поверхности](custom-theme-safe.png)
+
+Исходные коды цветов сохраняются. Смягчение можно отключить; автоматическая читаемость текста остаётся включённой.
+
+Дальнейшие снимки используют подготовленную библиотеку, архивные составы и собственное короткое видео. После установки личная библиотека пустая, стартовый экран — живой каталог. Полосы прокрутки не скрываются; показаны обычные окна, а не сжатая высокая страница.
 
 ## Библиотека и навигация
 
 ![Библиотека Yoru 0.7](library.png)
 
-[Избранное](favorites.png) · [История](history.png) · [Источники](sources.png) · [Компактное окно](window-compact.png)
+[Избранное](favorites.png) · [История](history.png) · [Компактное окно](window-compact.png)
 
 ## Загрузка в режиме «Качество»
 
@@ -38,13 +56,13 @@
 
 ![Собственная палитра](settings-custom.png)
 
-В версии 0.7.5 обновлены четыре снимка плеера и форм: тестовый перевод явно называется «Демонстрационные субтитры». Остальные снимки показывают неизменившиеся экраны 0.7.4.
+Все снимки воспроизводимых сценариев пересозданы для 0.8.0. Тестовый перевод называется «Демонстрационные субтитры», чтобы не приписывать собственное видео настоящей студии.
 
 ## Просмотр и диалоги
 
 ![Плеер с переводом поверх собственного тестового видео](original-player.png)
 
-[Параметры просмотра](player-settings.png) · [Добавление аниме](add-dialog.png) · [Выбор постера](poster-picker.png) · [Добавление источника](media-dialog.png) · [Добавление перевода — нижняя часть прокручиваемой формы](subtitle-dialog.png)
+[Параметры просмотра](player-settings.png) · [Дополнительный ручной импорт](add-dialog.png) · [Выбор постера](poster-picker.png) · [Добавление источника](media-dialog.png) · [Добавление перевода — нижняя часть прокручиваемой формы](subtitle-dialog.png)
 
 ## Персонажи
 
@@ -73,4 +91,4 @@
 
 ## Повторить снимки
 
-После успешного полного `npm run test:e2e` выполни `node scripts/update-gallery.js`. Скрипт сначала проверяет наличие всех снимков и затем копирует их в галерею. Для персонажей используется подготовленный состав с фотографиями (`character-photos.png`), а не диагностический экран ручных отметок серий.
+После успешного полного `npm run test:e2e` выполни `node scripts/update-gallery.js`. Скрипт сначала проверяет наличие всех 41 воспроизводимых снимков и затем копирует их в галерею. Три `catalog-live-*.png` он не заменяет: они получены отдельным живым прогоном и требуют повторной проверки настоящего сервиса. Для персонажей используется подготовленный состав с фотографиями (`character-photos.png`), а не диагностический экран ручных отметок серий.

diff --git a/docs/validation.md b/docs/validation.md
@@ -1,5 +1,15 @@
 # Проверка перед отправкой на GitHub
 
+## Версия 0.8.0 — каталог и автоматический просмотр
+
+Проверенный код — `b1a66450cee1de0d3e47595474fc6eae30300673`. **68 unit-тестов**, **81 браузерный сценарий**, production build и настоящий Linux Electron прошли успешно. Добавлены поиск, карточка, автоматический запуск без ссылок, обновление временных URL, возобновление, обработка отказов, безопасный IPC, контраст собственной темы, геометрия месяца и непрерывный ползунок без вертикального скачка. Прежние сценарии плееров, озвучек, переводов, восстановления за 30 секунд и заметок также прошли.
+
+Живой прогон без подмены API/медиа воспроизвёл «Фрирен» и «Клинок, рассекающий демонов» в разных движках, 1920×1080, с декодированием звука и успешной перемоткой на минуту. API вернул 1 904 релиза провайдера, загружено 48 карточек. Российский выход не использовался; проверка всех аниме и всех провайдеров не заявляется. [Полный отчёт](catalog-0.8.0.md) · [Результат](live-catalog-0.8.0.json).
+
[1 lines of base64/hex data omitted]
+
+Следующие разделы — история прежних версий; их ограничения и числа не описывают текущую 0.8.0.
+
 ## Предварительная версия 0.7.7 — 30 секунд и сохранение просмотра
 
 Проверенный код — `413e132`. Пройдены **58 unit-тестов**, полный прогон **71 браузерного сценария** и настоящий Linux Electron. В обоих движках проверено настоящее ожидание около 30 секунд без метаданных и переход к источнику той же озвучки с сохранением сезона, серии и тайминга. Дополнительно проверены приоритет после ручного выбора студии, её псевдонимы, пауза/звук/скорость, источник, добавленный во время просмотра, и независимый прогресс двух аниме после перезапуска. Главные и второстепенные персонажи отображаются в правильном порядке, их заметки сохраняются.
